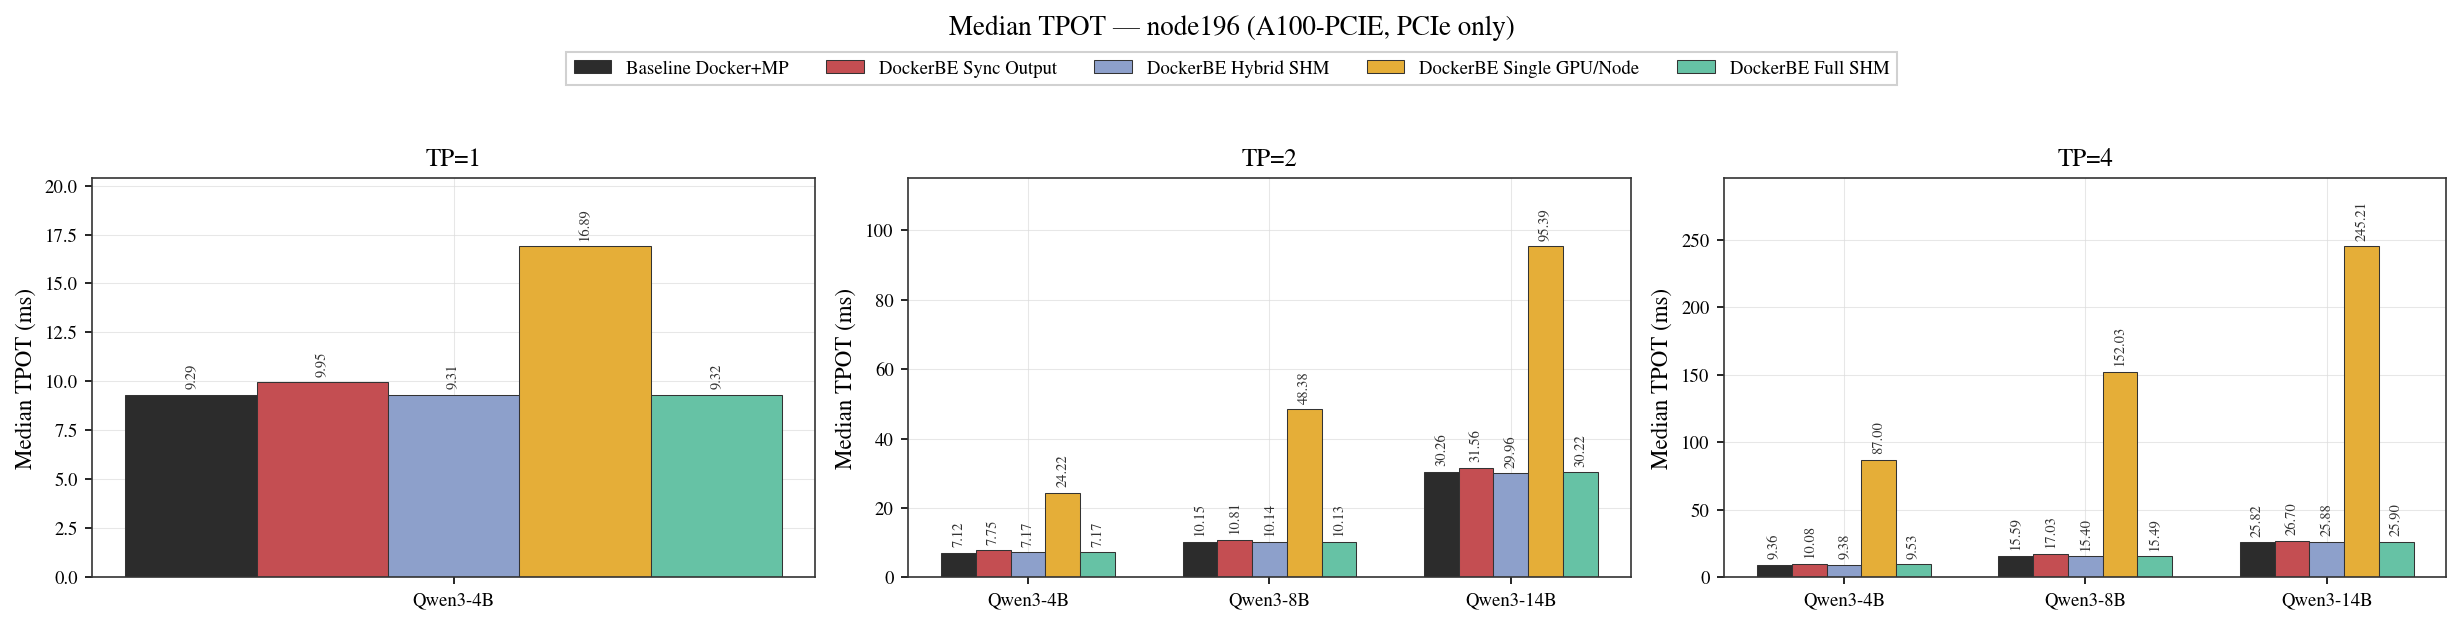
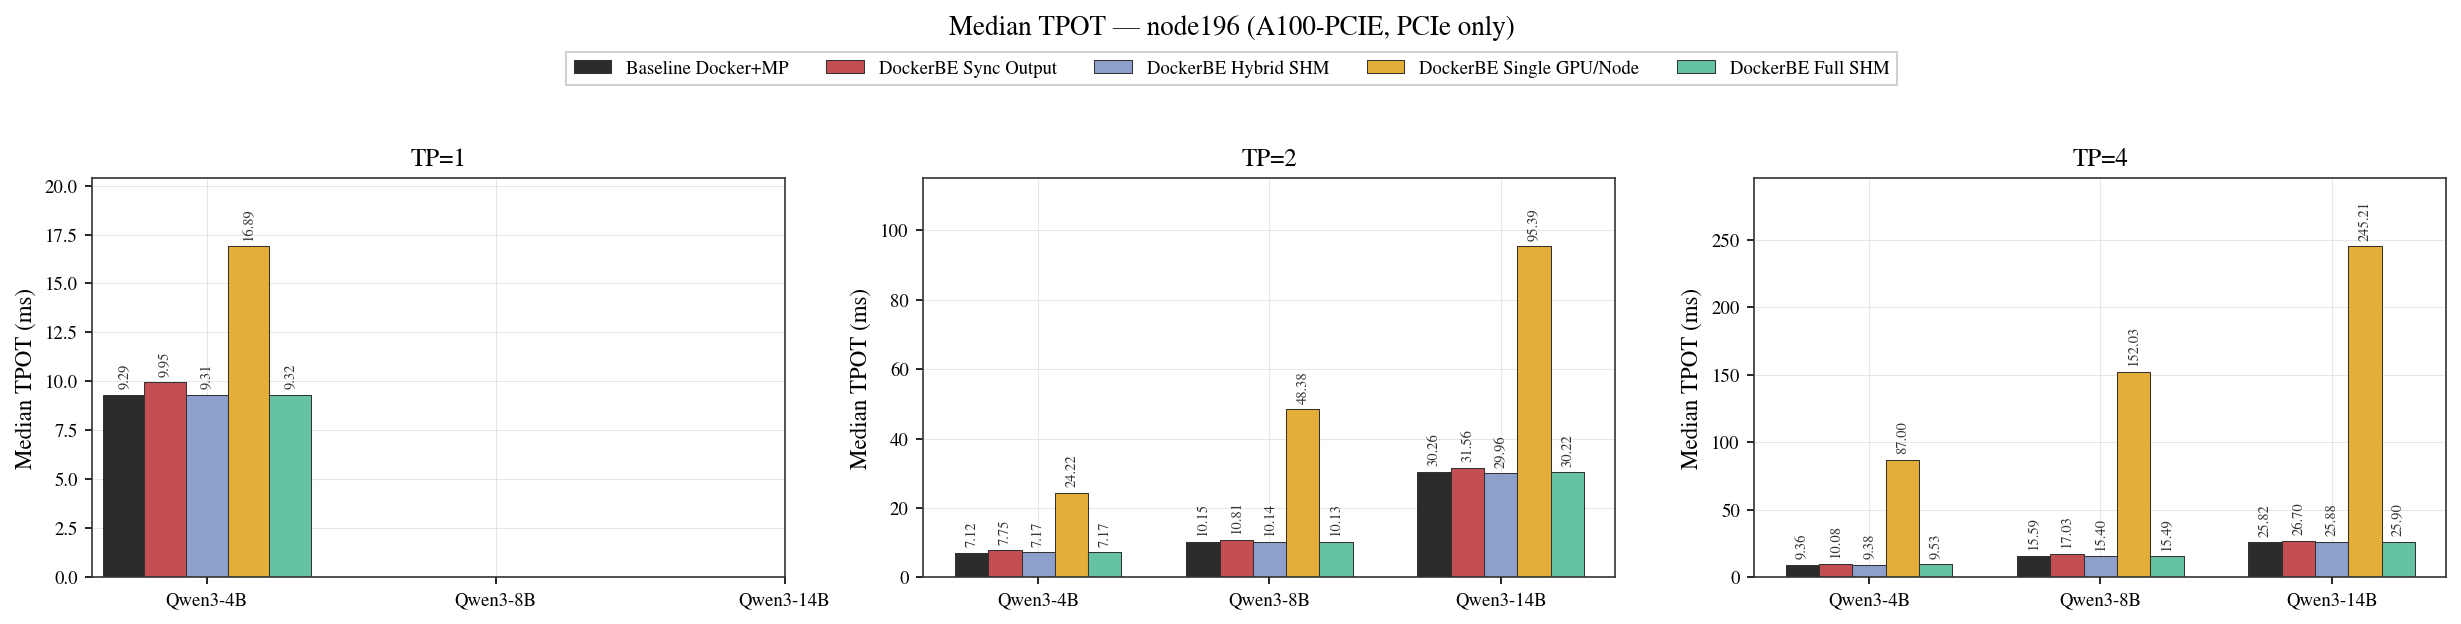
exp1: fix node196 GPU info and consistent x-axis for TP=1 figures
Fix node196 gpu_info from "GPU 1,2" to "GPU 0,1,2,3". Show all three
model positions on TP=1 subplots (leaving Qwen3-8B/14B blank) instead
of filling the full subplot with only Qwen3-4B.

diff --git a/examples/docker_executor/experiments/exp1_backend_comparison/analysis_report.html b/examples/docker_executor/experiments/exp1_backend_comparison/analysis_report.html
@@ -98,7 +98,7 @@
   <main>
     <h1>Experiment 1: DockerDistributedExecutor Backend Comparison</h1>
     <p class="subtitle">
-      Generated 2026-03-28 08:27:21 UTC &middot; commit c12e73f8b
+      Generated 2026-03-28 11:53:10 UTC &middot; commit 1cd9d127a
     </p>
 
     <h2>1. Objective</h2>
@@ -170,7 +170,7 @@
         <img src="analysis_assets/node192_delta_vs_baseline.png" alt="Delta vs Baseline">
       </div>
       <h3 id="node196">node196 (A100-PCIE, PCIe only)</h3>
-      <p><b>Hardware:</b> 2x A100-PCIE-40GB, GPU 1,2, PCIe 4.0<br>
+      <p><b>Hardware:</b> 4x A100-PCIE-40GB, GPU 0,1,2,3, PCIe 4.0<br>
          <b>Models:</b> Qwen3-4B, Qwen3-8B, Qwen3-14B<br>
          <b>TP sizes:</b> 1, 2, 4</p>
       

diff --git a/examples/docker_executor/experiments/exp1_backend_comparison/generate_sweep_report.py b/examples/docker_executor/experiments/exp1_backend_comparison/generate_sweep_report.py
@@ -98,7 +98,7 @@ NODES = [
     {
         "key": "node196",
         "label": "node196 (A100-PCIE, PCIe only)",
-        "gpu_info": "2x A100-PCIE-40GB, GPU 1,2, PCIe 4.0",
+        "gpu_info": "4x A100-PCIE-40GB, GPU 0,1,2,3, PCIe 4.0",
         "dir": "node196",
         "tp_sizes": [1, 2, 4],
         "variants": [
@@ -356,25 +356,29 @@ def plot_absolute_metric(
     offsets = variant_offsets(len(variants))
     record_map = records_by_key(records)
 
+    # Use all models for consistent x-axis across subplots
+    all_model_labels = [label for _, label in MODELS]
+    all_model_slugs = [slug for slug, _ in MODELS]
+    all_centers = list(range(len(MODELS)))
+
     for ax, tp_size in zip(axes[0], tp_sizes):
-        models = available[tp_size]
-        model_labels = [label for _, label in models]
-        centers = list(range(len(models)))
+        available_slugs = {s for s, _ in available[tp_size]}
         ax.set_axisbelow(True)
 
         for offset, variant in zip(offsets, variants):
-            values = [
-                record_map[(ms, tp_size, variant["key"])].metrics[metric_name]
-                for ms, _ in models
-            ]
-            positions = [c + offset * width for c in centers]
+            values = []
+            positions = []
+            for i, ms in enumerate(all_model_slugs):
+                if ms in available_slugs and (ms, tp_size, variant["key"]) in record_map:
+                    values.append(record_map[(ms, tp_size, variant["key"])].metrics[metric_name])
+                    positions.append(all_centers[i] + offset * width)
             bars = ax.bar(positions, values, width=width, label=variant["label"],
                           color=variant["color"], edgecolor="#333", linewidth=0.5)
             annotate_bars(ax, list(bars), precision)
 
         ax.set_title(f"TP={tp_size}", fontsize=12)
-        ax.set_xticks(centers)
-        ax.set_xticklabels(model_labels)
+        ax.set_xticks(all_centers)
+        ax.set_xticklabels(all_model_labels)
         ax.set_ylabel(ylabel)
         ymin, ymax = ax.get_ylim()
         ax.set_ylim(ymin, ymax * 1.15)
@@ -412,32 +416,33 @@ def plot_deltas(
         ("output_token_throughput_tps", "Throughput delta vs baseline (tok/s)", 1, 1),
     ]
 
+    all_model_labels = [label for _, label in MODELS]
+    all_model_slugs = [slug for slug, _ in MODELS]
+    all_centers = list(range(len(MODELS)))
+
     for col, tp_size in enumerate(tp_sizes):
-        models = available[tp_size]
-        model_labels = [label for _, label in models]
-        centers = list(range(len(models)))
+        available_slugs = {s for s, _ in available[tp_size]}
         for metric_name, ylabel, row, precision in plot_specs:
             ax = axes[row][col]
             ax.set_axisbelow(True)
-            baselines = [
-                record_map[(ms, tp_size, "baseline")].metrics[metric_name]
-                for ms, _ in models
-            ]
 
             for offset, variant in zip(offsets, delta_variants):
-                values = [
-                    record_map[(ms, tp_size, variant["key"])].metrics[metric_name] - baselines[i]
-                    for i, (ms, _) in enumerate(models)
-                ]
-                positions = [c + offset * width for c in centers]
+                values = []
+                positions = []
+                for i, ms in enumerate(all_model_slugs):
+                    if ms in available_slugs and (ms, tp_size, variant["key"]) in record_map:
+                        bl = record_map[(ms, tp_size, "baseline")].metrics[metric_name]
+                        val = record_map[(ms, tp_size, variant["key"])].metrics[metric_name] - bl
+                        values.append(val)
+                        positions.append(all_centers[i] + offset * width)
                 bars = ax.bar(positions, values, width=width, label=variant["label"],
                               color=variant["color"], edgecolor="#333", linewidth=0.5)
                 annotate_bars(ax, list(bars), precision)
 
             ax.axhline(0.0, color="#333", linewidth=0.8)
             ax.set_title(f"TP={tp_size}", fontsize=12)
-            ax.set_xticks(centers)
-            ax.set_xticklabels(model_labels)
+            ax.set_xticks(all_centers)
+            ax.set_xticklabels(all_model_labels)
             ax.set_ylabel(ylabel)
             ymin, ymax = ax.get_ylim()
             span = ymax - ymin
